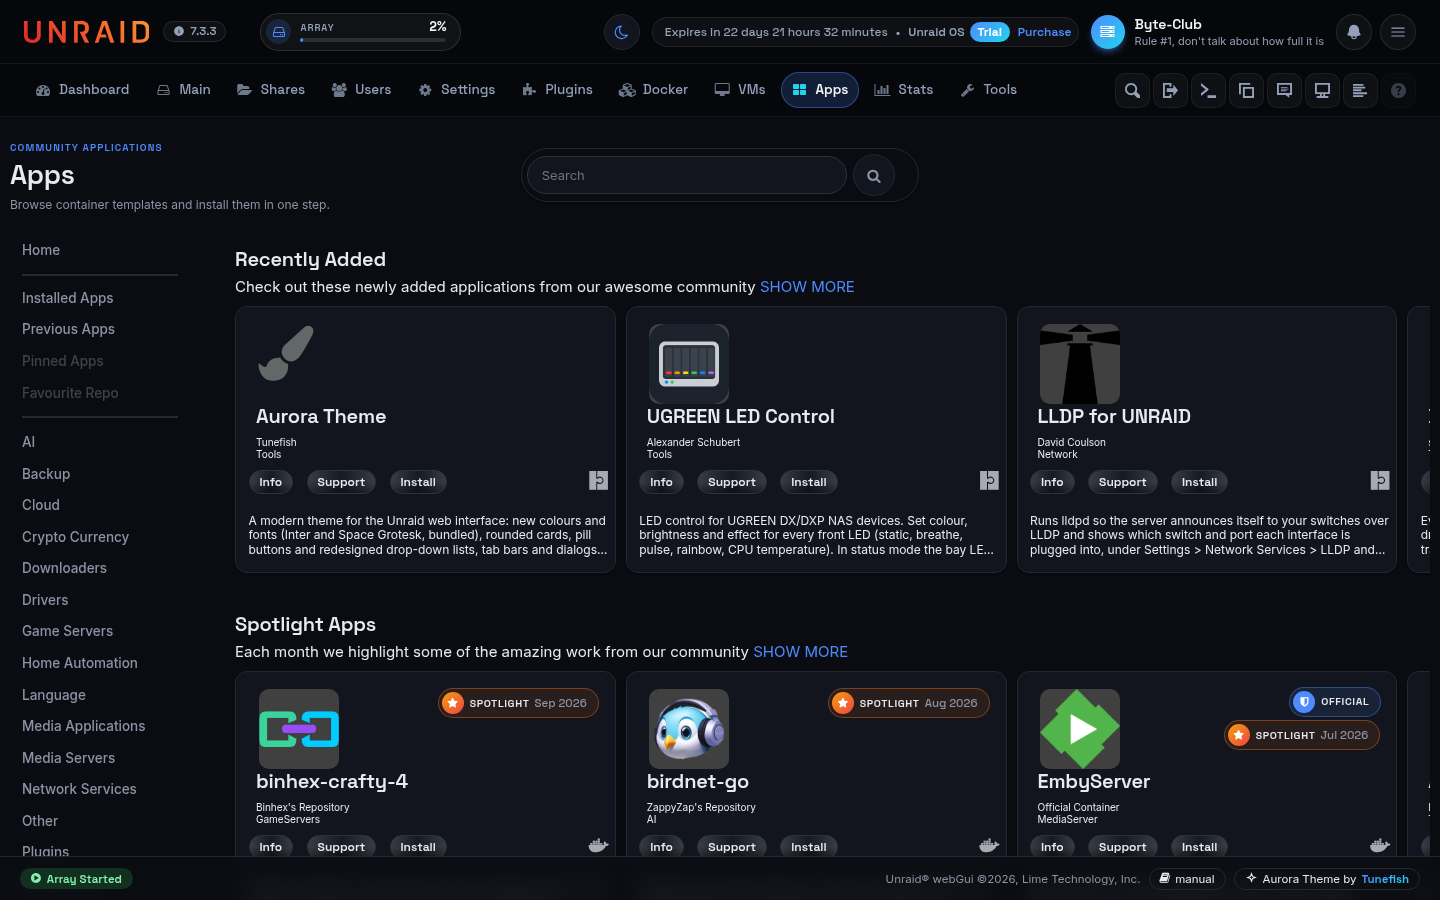
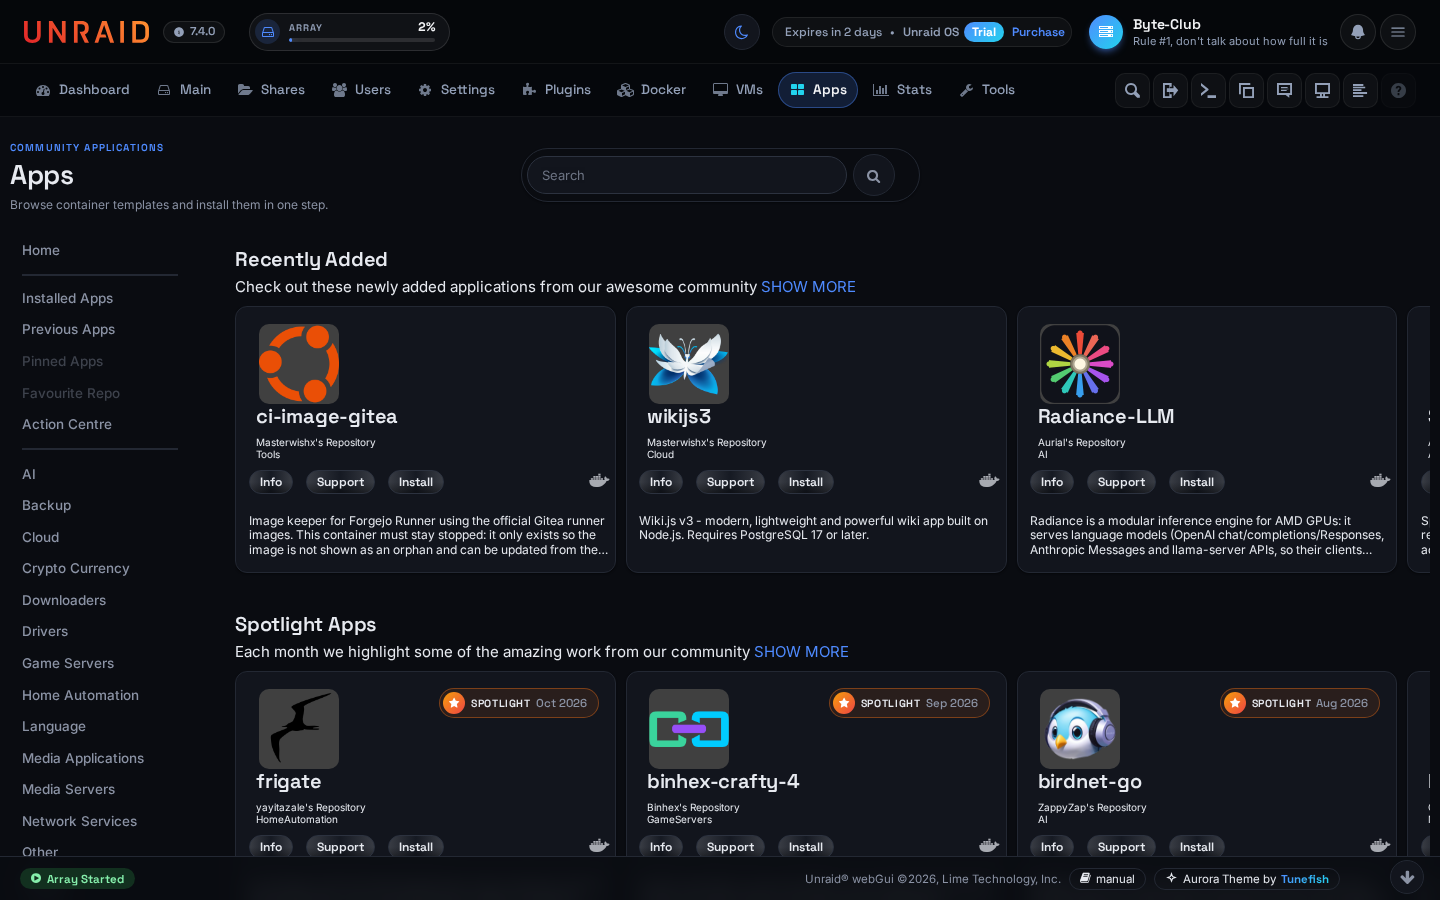
README: Unraid 7.4 screenshots, recent features, own CSS section
Eight screenshots retaken on the test server with Unraid 7.4.0 and its new
header (dashboard dark and light, sidebar, settings, Docker, VMs, Apps,
Tools). The feature list now mentions the spinning status pills, the amber
Update button, the choice of update notifications and the login page's
accent colour; custom.css, custom.js and custom-login.css get a section of
their own.

diff --git a/README.md b/README.md
@@ -43,7 +43,7 @@ Or over SSH:
 plugin install https://github.com/Tunefish92/Aurora-Theme/releases/latest/download/Aurora-Theme.plg
 ```
 
-Requires Unraid 7.2 or newer. The theme follows the Dynamix colour theme in *Settings → Display Settings*: **Black** gives the dark look, **White** the light one; the round button at the top right switches between the two. Other Dynamix themes are left unchanged.
+Requires Unraid 7.2 or newer; it supports the new header of Unraid 7.4. The theme follows the Dynamix colour theme in *Settings → Display Settings*: **Black** gives the dark look, **White** the light one; the round button at the top right switches between the two. Other Dynamix themes are left unchanged.
 
 Settings are under **Settings → User Utilities → Aurora Theme**.
 
@@ -51,16 +51,16 @@ Settings are under **Settings → User Utilities → Aurora Theme**.
 
 - **Look**: Inter and Space Grotesk fonts (bundled, no external requests), a blue–cyan accent, rounded cards, pill buttons, themed drop-down lists, switches, tab bars, dialogs, tooltips and notifications. Every table, including those of plugins, gets the same card style.
 - **Layout**: a top bar with the server controls in one row and pill tabs with icons, the quick actions as round buttons; or an optional sidebar with the main menu, server card and quick actions (phones and tablets keep the top bar). A dark / light switch and page headings on every tab.
-- **Login page**: a glass card on an aurora background, in the dark or light palette.
-- **Dashboard**: tiles as cards, a summary strip (uptime, CPU, memory, array), restyled load charts, the processor's cores as a compact grid with power and temperature chips, usage rings, fans and disk bays as small cards. Clicking a container opens a dialog with all its actions. The processor tile keeps showing load, power and temperature when the Unraid API service is not running.
+- **Login page**: a glass card on an aurora background, in the dark or light palette and in your accent colour. Your own CSS for it goes in `custom-login.css` (see [Your own CSS and JavaScript](#your-own-css-and-javascript)).
+- **Dashboard**: tiles as cards, a summary strip (uptime, CPU, memory, array), restyled load charts, the processor's cores as a compact grid with power and temperature chips, usage rings, fans and disk bays as small cards. Clicking a container opens a dialog with all its actions; when an update is ready, its Update button stands out in amber. The processor tile keeps showing load, power and temperature when the Unraid API service is not running.
 - **Main**: device tables with status dots, temperature and error chips and slim usage bars; Array Operation as cards (array, parity check with live progress, last check, disks, mover, power).
-- **Docker**: a compact list with status, CPU, memory and a one-click WebUI button, filters and search, collapsible application groups with start/stop for a whole group, an "Orphans" section that removes unused images in one click, and a card layout on phones that also shows each container's addresses and mounts. The list refreshes by itself when containers were updated in the background. Containers keep Unraid's order and start in the order they are listed; unlock the list to drag them within and between groups or to move whole groups. With the FolderView3 plugin installed, a switch chooses between Aurora's groups and FolderView3's folders. With FolderView Plus installed, its folders arrange the Docker and VMs tabs and the Dashboard, and Aurora keeps to colours and layout, as FolderView Plus asks of themes. Support for both FolderView plugins is in beta (a note in the top bar says so); please report anything that looks off. In the container editor every port is checked while typing (range, duplicates, ports used by other containers or by the server), and the "docker allocations" list becomes a searchable overview.
-- **VMs**: groups like on the Docker tab, a column with start / stop, group and menu buttons, and an expand button per VM for its disks, interfaces and snapshots, with buttons to create, revert and remove snapshots.
+- **Docker**: a compact list with status, CPU, memory and a one-click WebUI button (while a container starts or stops, its status pill spins and says "starting" or "stopping"), filters and search, collapsible application groups with start/stop for a whole group, an "Orphans" section that removes unused images in one click, and a card layout on phones that also shows each container's addresses and mounts. The list refreshes by itself when containers were updated in the background. Containers keep Unraid's order and start in the order they are listed; unlock the list to drag them within and between groups or to move whole groups. With the FolderView3 plugin installed, a switch chooses between Aurora's groups and FolderView3's folders. With FolderView Plus installed, its folders arrange the Docker and VMs tabs and the Dashboard, and Aurora keeps to colours and layout, as FolderView Plus asks of themes. Support for both FolderView plugins is in beta (a note in the top bar says so); please report anything that looks off. In the container editor every port is checked while typing (range, duplicates, ports used by other containers or by the server), and the "docker allocations" list becomes a searchable overview.
+- **VMs**: groups like on the Docker tab, status pills that spin while a VM starts or stops, a column with start / stop, group and menu buttons, and an expand button per VM for its disks, interfaces and snapshots, with buttons to create, revert and remove snapshots.
 - **Apps** (Community Applications): a nav-style menu, the search centred in the title row with themed suggestions, "Installed", "Official" and spotlight badges as pills, page numbers that stay in place, and Change Log, Credits and Statistics as modals.
 - **Settings and Tools**: a search field and a Favourites section; star any card to pin it at the top. The tool pages get readable help text: notes and warnings as callouts, command output in monospaced boxes, and the Diagnostics file list as cards. Help boxes and notices look the same everywhere.
 - **Users**: user cards with avatars or coloured initials, roles, search and an "Add user" button.
 - **Stats**: its own Stats tab with CPU, memory, network and disk charts, collected once a minute. It replaces the Dynamix System Statistics plugin, so remove that one first.
-- **Settings page**: switches for colours, layout, enhancements and the Stats tab, an accent colour, and the fonts (Aurora's Inter and Space Grotesk, or Unraid's own Clear Sans); updates from the GitHub releases, automatically (on by default, checked weekly; after an update the next page shows what changed, with the notes of every release since your previous version) or with "Check for updates" and "Update now", from the stable releases or, if you like to test, the dev builds; a form that opens a pre-filled GitHub issue.
+- **Settings page**: switches for colours, layout, enhancements and the Stats tab, an accent colour, and the fonts (Aurora's Inter and Space Grotesk, or Unraid's own Clear Sans); updates from the GitHub releases, automatically (on by default, checked weekly; after an update the next page shows what changed, with the notes of every release since your previous version) or with "Check for updates" and "Update now", from the stable releases or, if you like to test, the dev builds, with a choice of which automatic updates send an Unraid notification (all, failures only, none); a form that opens a pre-filled GitHub issue.
 
 ## Dev builds
 
@@ -70,9 +70,22 @@ Between releases, new fixes and features first come out as dev builds. To try th
 
 - Open any page with `?aurora=off` added to the address (for example `/Dashboard?aurora=off`, also `/login?aurora=off`) to switch the plugin off in that browser; `?aurora=on` turns it back on.
 - Remove it under **Plugins**, or with `plugin remove Aurora-Theme.plg` over SSH. This also restores Unraid's own login page.
-- Your own CSS and JavaScript can go in `/boot/config/plugins/Aurora-Theme/custom.css` and `custom.js`; they load after the theme and survive updates. The login page follows the accent colour setting; for anything more, put CSS in `custom-login.css` in the same folder; its colours are variables (`--tp-primary`, `--tp-bg`, `--tp-card`, ...), for example `:root { --tp-primary: #e8590c; --tp-primary-ii: #f59f00; }` (and `--tp-primary-text: #ffffff;` if the button text should be white on a colour that differs from your accent setting).
+- Your own CSS can override what looks wrong; see below.
 
 Please report bugs and ideas as [issues](https://github.com/Tunefish92/Aurora-Theme/issues); the settings page can fill one in for you, including the system details.
+
+## Your own CSS and JavaScript
+
+Files in `/boot/config/plugins/Aurora-Theme/` on the flash drive load after the theme and survive updates:
+
+- `custom.css` and `custom.js`: every page of the webGUI.
+- `custom-login.css`: the login page (CSS only; no script of yours runs where the password is typed). The login page already follows the accent colour setting. Its colours are variables, so a few lines change them, for example:
+
+  ```css
+  :root { --tp-primary: #e8590c; --tp-primary-ii: #f59f00; }
+  ```
+
+  `--tp-bg`, `--tp-card`, `--tp-primary-soft` and `--tp-aurora-a` / `-b` / `-c` (the background glow) work the same way. On a colour that differs from your accent setting, `--tp-primary-text` sets the button text (white or dark).
 
 ## Building from source
 
